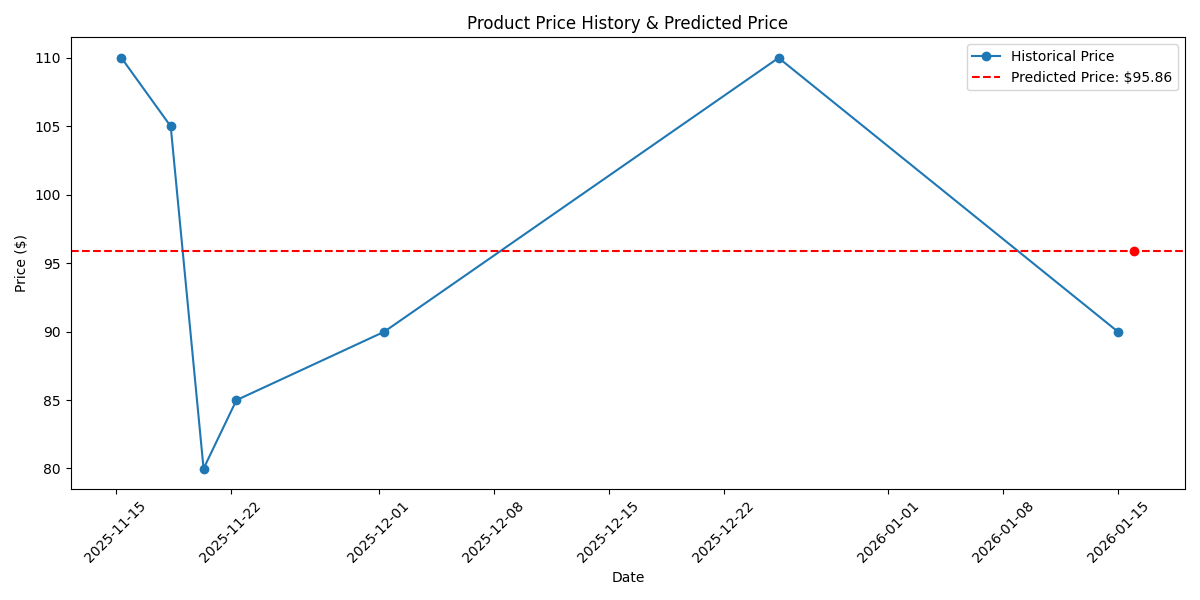
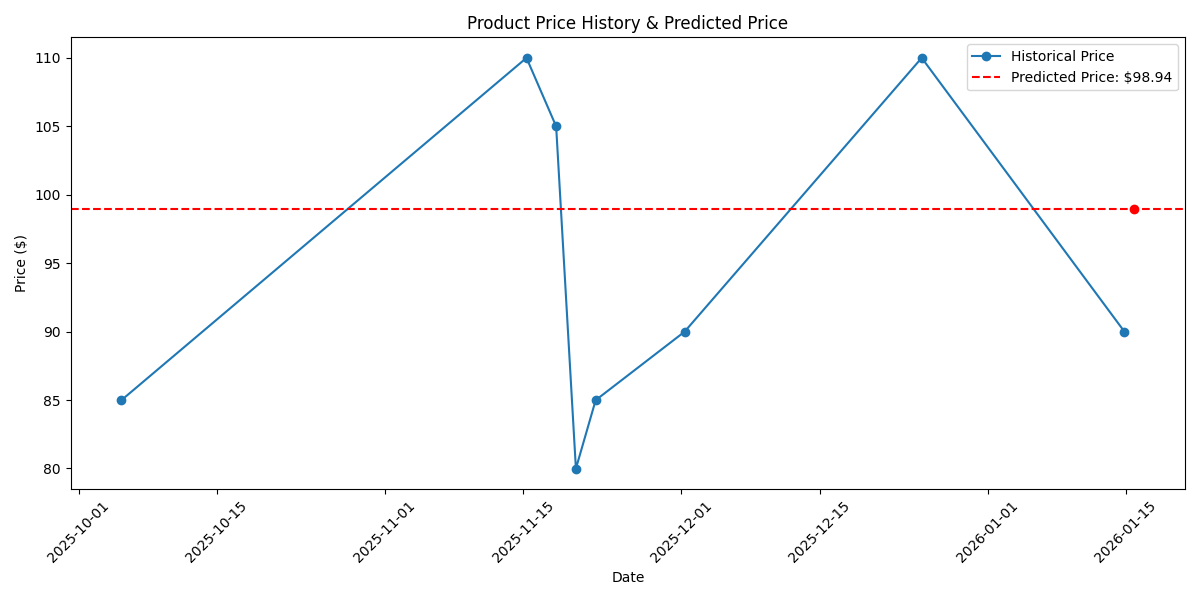
updated png

diff --git a/README.md b/README.md
@@ -1,2 +1,1 @@
-# Amazon-Price-Tracker
 Amazon Price Tracker is a Python-based project that automatically monitors Amazon product prices, logs data, and notifies you of price drops. Designed for automation, keeps track of price trends over time, making it easy to analyze and make purchasing decisions.
